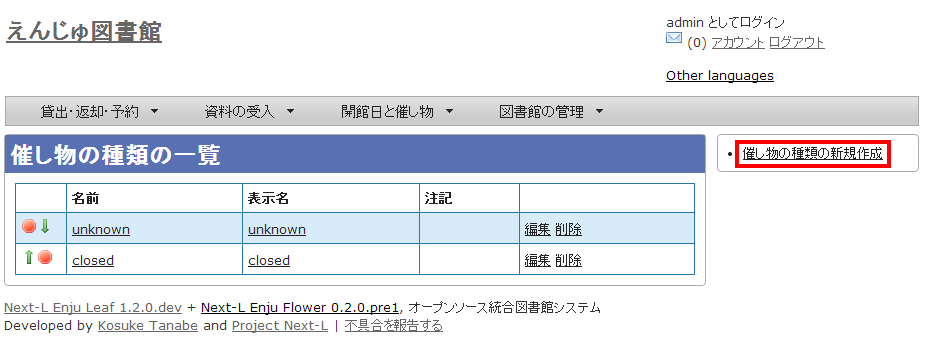
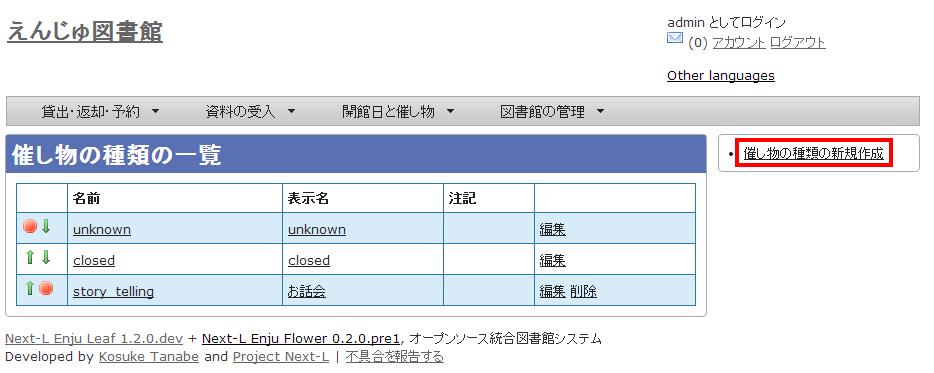
初期設定マニュアルの催し物の種類の設定の画面を差し替え。結果の画面の追加。

diff --git a/_includes/enju_setup/event_category.md b/_includes/enju_setup/event_category.md
@@ -24,4 +24,6 @@
 4. 設定項目に必要事項を入力し、
    ［登録する］ボタンをクリックして，設定内容を登録します。  
    ![催し物の種類を作成](assets/images/image_initial_034.png)
+5. 「催し物の種類は正常に作成されました。」と表示され、催し物の種類の作成が完了します。
+   ![催し物の種類の作成が完了](assets/images/image_initial_034_2.png)
 
